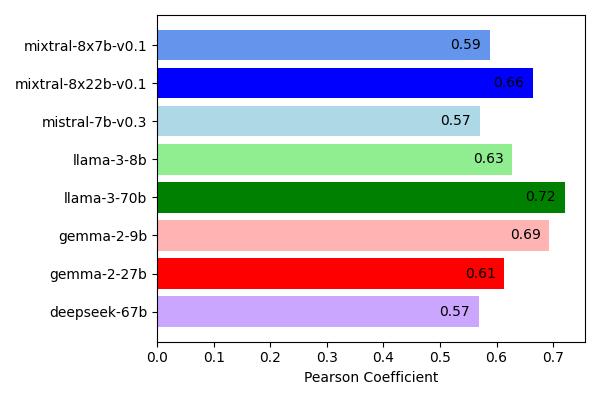
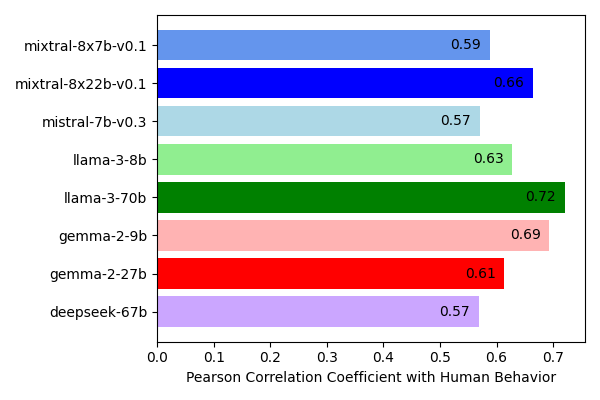
cahnge visualizations for paper

Changed region(s): [[0.3, 0.93, 0.93, 0.96]]

diff --git a/analysis/visualize.py b/analysis/visualize.py
@@ -112,7 +112,7 @@ def run_analysis(models_dir, human_annotations_path, out_dir):
             va='center',  # Align vertically
             ha='left'  # Align horizontally
         )
-    ax.set_xlabel("Pearson Coefficient")
+    ax.set_xlabel("Pearson Correlation Coefficient with Human Behavior")
     plt.tight_layout()
     plt.savefig(os.path.join(out_dir, 'correlation_with_humans.png'))
 
@@ -201,7 +201,7 @@ def run_analysis(models_dir, human_annotations_path, out_dir):
         lefts += flipped_percentage[:, i]
 
     # Adding labels and title
-    ax.set_xlabel('Percentage', fontsize=14)
+    ax.set_xlabel('% Sentences', fontsize=14)
     plt.yticks(fontsize=14)
     plt.xticks(fontsize=14)
     ax.legend(loc='upper right', bbox_to_anchor=(1, 1.10), ncol=len(categories), fontsize=11)
@@ -268,7 +268,7 @@ def plot_model_distribution(all_model_results, model_names, key, dir_path):
 
         lefts += all_models_total[:, i]
     # Adding labels and title
-    ax.set_xlabel('Percentage', fontsize=14)
+    ax.set_xlabel('% Sentences', fontsize=14)
     plt.yticks(fontsize=14)
     plt.xticks(fontsize=14)
     ax.legend(loc='upper center', bbox_to_anchor=(0.5, 1.10), ncol=len(categories), fontsize=12)
